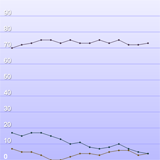
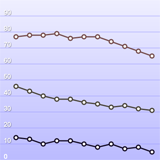
updated line Chart demo

diff --git a/demos/Demos.js b/demos/Demos.js
@@ -229,8 +229,21 @@
 	LineChartDemo.prototype = Object.create(AbstractDemo.prototype);
 	LineChartDemo.prototype.constructor = AbstractDemo;
 	
+	LineChartDemo.prototype.preSetUp = function(){
+		this.backGroundCanvas = this.document.createElement('canvas');
+		//console.log("LineChartDemo.preSetUp() ",this.backGroundCanvas);
+		this.backGroundCanvas.width = this.width; 
+		this.backGroundCanvas.height = this.height;
+		this.backGroundCanvasContext2d = this.backGroundCanvas.getContext("2d");
+		this.backGroundCanvas.style.position = "absolute";
+		this.document.body.appendChild(this.backGroundCanvas);//later on this should be a div, the created canvas should adopt the sizes of the div	
+	}
+	LineChartDemo.prototype.getCaptureCanvases = function(){
+		return [this.backGroundCanvas, this.canvas];
+	}
+	
 	LineChartDemo.prototype.run = function(){
-		this.lineChart = new LineChart(this.x, this.y, this.width, this.height);
+		this.lineChart = new LineChart(this.x + 10, this.y, this.width, this.height);
 		var _this = this;
 		this.canvas.addEventListener("click", function(event){_this.canvasClickHandler(event)}, false);//"mousedown"
 		this.lineChartOpen = true;
@@ -238,9 +251,18 @@
 		this.animator.start();
 	}	
 	
+	LineChartDemo.prototype.createBackground = function(){
+		this.background = new ChartBackground(this.x, this.y, this.width, this.height);
+		this.background.legendMargin = 10;
+		this.background.render(this.backGroundCanvasContext2d, 0, this.lineChart.max);
+	}
+	
 	LineChartDemo.prototype.updateLineChart = function(){
 		this.clear();
 		this.lineChart.render(this.context2d, this.animator.getAnimationPercent());
+		if(!this.background){
+			this.createBackground();
+		}
 	}
 	LineChartDemo.prototype.updateLineChartReverse = function(){
 		this.clear();
@@ -258,7 +280,10 @@
 	}
 	
 	LineChartDemo.prototype.customTearDown = function(){
-		delete this.lineChartOpen;
+		delete this.lineChart;
+		this.document.body.removeChild(this.backGroundCanvas);
+		delete this.backGroundCanvasContext2d;
+		delete this.backGroundCanvas;
 	}
 	
 	window.LineChartDemo = LineChartDemo;
@@ -307,7 +332,6 @@
 
 	BarChartDemo.prototype.createBackground = function(){
 		this.background = new ChartBackground(this.x, this.y, this.width, this.height);
-		this.background.renderFalse3d = true;
 		this.background.false3DExtrusion = this.barChart.extrudeWidth;
 		this.background.legendMargin = this.barChart.extrudeWidth + 3;
 		this.background.render(this.backGroundCanvasContext2d, 0, this.barChart.max);

diff --git a/charting/LineChart.js b/charting/LineChart.js
@@ -6,7 +6,6 @@
 
 	LineChart=function(x,y,width,height){
 		SimpleGeometry.Rectangle.call(this,x,y,width,height); //call super constructor.
-		this.background=new ChartBackground(x,y,width,height);
 	}
 	
 	//subclass extends superclass
@@ -42,7 +41,7 @@
 	LineChart.prototype.setRandomValues=function(){
 		var values = new Array();
 		var lines = 1 + Math.floor(Math.random()*3);//between 1 and 4
-		var points = 10 + Math.floor(Math.random()*30);//between 10 and 40
+		var points = 10 + Math.floor(Math.random()*10);//between 10 and 40
 		var line,pointValue;
 		while(lines>0){
 			line = new Array();
@@ -71,14 +70,6 @@
 		//console.log("LineChart.setRandomColors",this.colors);
 	}
 	
-	//shared with other components, inherit?
-	LineChart.prototype.setBgColors=function(bgColor,bgStrokeColor){
-		this.background.setBgColors(bgColor,bgStrokeColor);
-	}
-	LineChart.prototype.setNumberOfBackgroundLines=function(lines){
-		this.background.numberOfBackgroundLines = lines;
-	}
-	
 	LineChart.prototype.render=function(context,animationPercent){
 		//console.log("LineChart.render()");
 		if(!this.values){
@@ -90,7 +81,6 @@
 		if(isNaN(animationPercent)){
 			animationPercent = 1;
 		}
-		this.background.render(context, this.min, this.max);
 		this.pointSpacer = (this.width-this.margin*2)/(this.values[0].length-1);
 		for (var i = 0; i < this.values.length; i++) {
 			this.renderLine(context,this.values[i],this.colors[i],animationPercent);
@@ -110,7 +100,7 @@
 		}
 		context.beginPath();
 		context.strokeStyle = color;
-		context.lineWidth = 1;
+		context.lineWidth = 3;
 		context.moveTo(this.x + this.margin, this.calculateYPosition(line[0],animationPercent));
 		//render lines
 		for (var i = 1; i < line.length; i++) {
@@ -127,13 +117,15 @@
 		}
 		
 		//render dots
-		context.fillStyle = color;
+		context.strokeStyle = color;
+		context.fillStyle = "#FFFFFF";
 		for (var i = 0; i < line.length; i++) {
 			context.beginPath();
 			this.renderPoint.x = this.x + this.margin + (this.pointSpacer * i);			
 			this.renderPoint.y = this.calculateYPosition(line[i],animationPercent);
-			context.arc(this.renderPoint.x, this.renderPoint.y, 2, 0, SimpleGeometry.PI2);
+			context.arc(this.renderPoint.x, this.renderPoint.y, 5, 0, SimpleGeometry.PI2);
 			context.fill();
+			context.stroke();
 			context.closePath();
 		}
 	}

diff --git a/assets/demoThumbnails/index.html b/assets/demoThumbnails/index.html
@@ -5,6 +5,17 @@
 		<meta name="viewport" />
 		<title>DevState : Current demo thumbnails and gifs</title>
 		
+<script>
+  (function(i,s,o,g,r,a,m){i['GoogleAnalyticsObject']=r;i[r]=i[r]||function(){
+  (i[r].q=i[r].q||[]).push(arguments)},i[r].l=1*new Date();a=s.createElement(o),
+  m=s.getElementsByTagName(o)[0];a.async=1;a.src=g;m.parentNode.insertBefore(a,m)
+  })(window,document,'script','//www.google-analytics.com/analytics.js','ga');
+
+  ga('create', 'UA-44531934-1', 'devstate.net');
+  ga('send', 'pageview');
+
+</script>
+		
 	</head>
 	<body >
 		<span>

diff --git a/common/DemoCaptureTool.js b/common/DemoCaptureTool.js
@@ -2,7 +2,7 @@
 
 
 	DemoCaptureTool = function(captureFrameRate, playbackFrameRate, canvases, outputImage){
-		console.log("DemoCaptureTool constructor ",captureFrameRate, playbackFrameRate);
+		//console.log("DemoCaptureTool constructor ",captureFrameRate, playbackFrameRate);
 		this.captureFrameRate = captureFrameRate;
 		this.playbackFrameRate = playbackFrameRate;
 		this.canvases = canvases;

diff --git a/demoGifCapture.html b/demoGifCapture.html
@@ -137,7 +137,7 @@
 			}
 			
 			function endCaptureDemoHandler(event){
-				console.log("endCaptureDemoHandler()");
+				//console.log("endCaptureDemoHandler()");
 				captureTool.stopOnNextCapture();
 			}
 			
